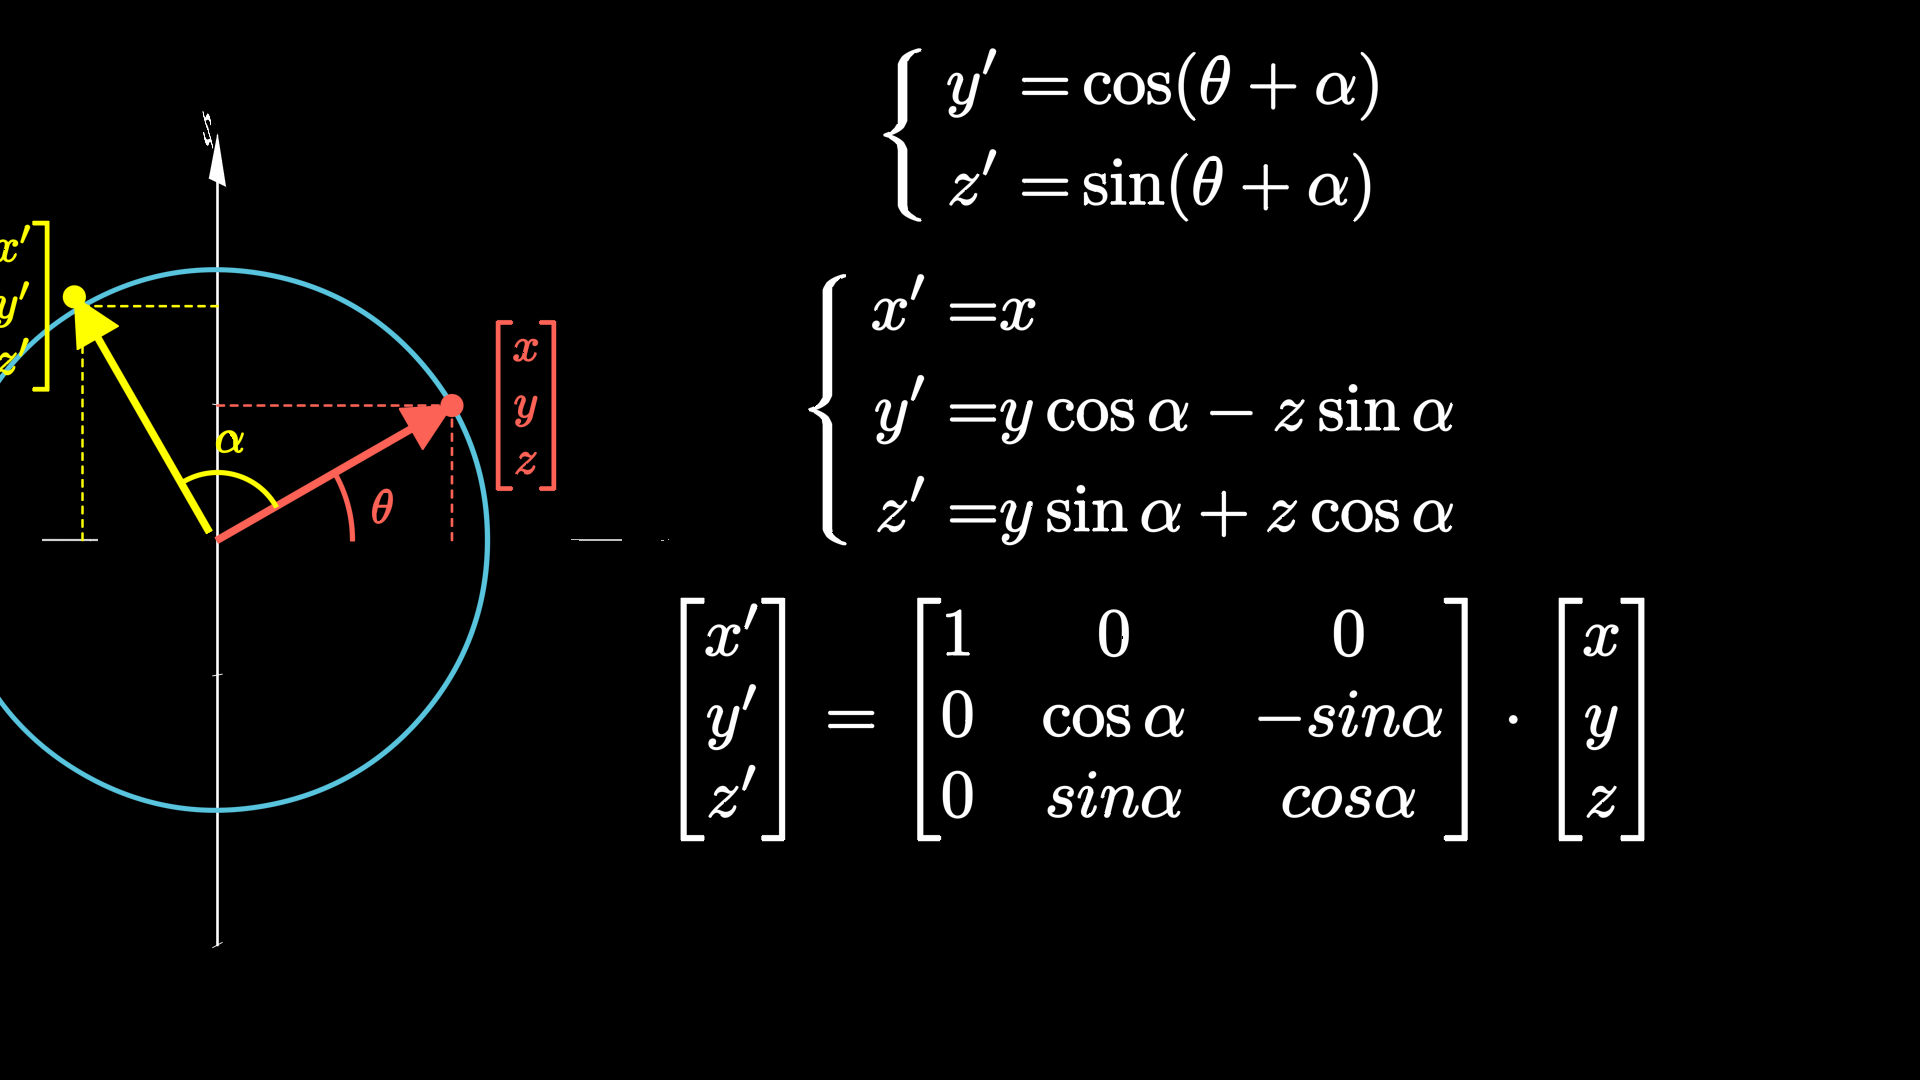
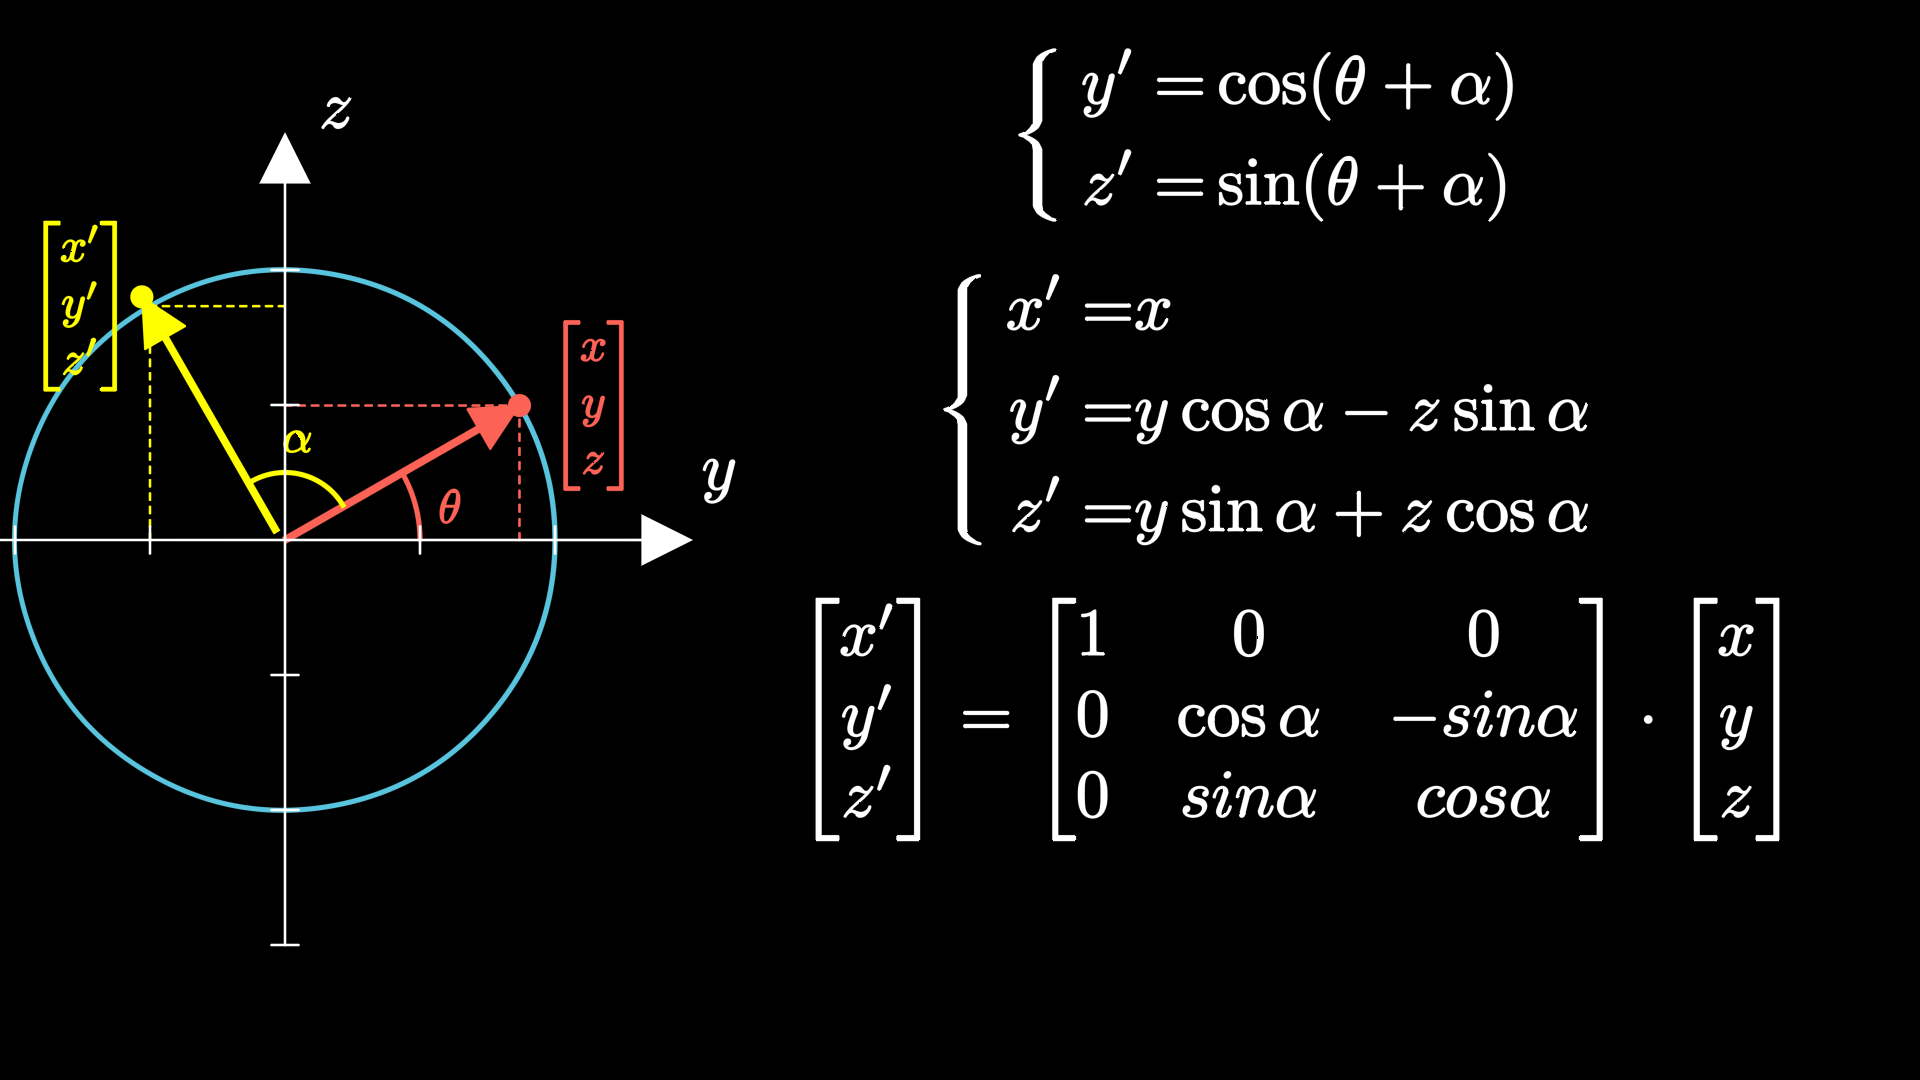
旋转-完美

diff --git a/learning/image-transformation-3d/show-001-3d.py b/learning/image-transformation-3d/show-001-3d.py
@@ -108,7 +108,7 @@ class Show001(ThreeDScene):
         self.next_section("1", skip_animations=False)
         self.wait()
         self.play(FadeOut(number_plane),FadeOut(rule_image),FadeOut(arc),FadeOut(arrow))
-        self.move_camera(frame_center=[5.5,0,0])
+        self.move_camera(frame_center=[5,0,0])
         self.wait()
 
         tex = MathTex(r"""
@@ -116,7 +116,7 @@ x' =& \cos( \theta+\alpha)   \\
 y' =& \sin(\theta+ \alpha) 
         """)
 
-        tex.shift(np.array([7, 3, 0]))
+        tex.shift(np.array([7.5, 3, 0]))
         self.play(Write(tex))
 
         brace = Brace(tex, direction=LEFT)
@@ -243,10 +243,16 @@ class Show002(ThreeDScene):
         self.play(ApplyMethod(axes.apply_matrix, matrix_y))
         self.move_camera(theta=0 * DEGREES, phi=0 * DEGREES)
 
+        self.remove(axes)
+        axes= Axes(include_numbers=False, x_range=[-3, 3, 1], y_range=[-3, 3, 1], x_length=6, y_length=6)
+        lables= axes.get_axis_labels(x_label= "z",y_label="x")
+        axes.add(lables)
+        self.add(axes)
+
         self.next_section("1", skip_animations=False)
         self.wait()
         self.play(FadeOut(number_plane),FadeOut(rule_image),FadeOut(arc),FadeOut(arrow))
-        self.move_camera(frame_center=[5.5,0,0])
+        self.move_camera(frame_center=[5,0,0])
         self.wait()
 
         tex = MathTex(r"""
@@ -254,7 +260,7 @@ x' =& \sin( \theta+\alpha)   \\
 z' =& \cos(\theta+ \alpha) 
         """)
 
-        tex.shift(np.array([7, 3, 0]))
+        tex.shift(np.array([7.5, 3, 0]))
         self.play(Write(tex))
 
         brace = Brace(tex, direction=LEFT)
@@ -387,10 +393,16 @@ class Show003(ThreeDScene):
         ])
         self.play(ApplyMethod(axes.apply_matrix, matrix_y))
 
+        self.remove(axes)
+        axes = Axes(include_numbers=False, x_range=[-3, 3, 1], y_range=[-3, 3, 1], x_length=6, y_length=6)
+        lables = axes.get_axis_labels(x_label="y", y_label="z")
+        axes.add(lables)
+        self.add(axes)
+
         self.next_section("1", skip_animations=False)
         self.wait()
         self.play(FadeOut(number_plane),FadeOut(rule_image),FadeOut(arc),FadeOut(arrow))
-        self.move_camera(frame_center=[5.5,0,0])
+        self.move_camera(frame_center=[5,0,0])
         self.wait()
 
         tex = MathTex(r"""
@@ -398,7 +410,7 @@ y' =& \cos( \theta+\alpha)   \\
 z' =& \sin(\theta+ \alpha) 
         """)
 
-        tex.shift(np.array([7, 3, 0]))
+        tex.shift(np.array([7.5, 3, 0]))
         self.play(Write(tex))
 
         brace = Brace(tex, direction=LEFT)
@@ -430,6 +442,7 @@ z' =& y\sin\alpha + z\cos\alpha
         im = Image.fromarray(image)
         im.save("out_img/x-转动.png")
 
+
 with tempconfig({"preview": True, "disable_caching": True, "renderer": "opengl"}):
-    Show001().render()
+    Show003().render()
     exit(1)
